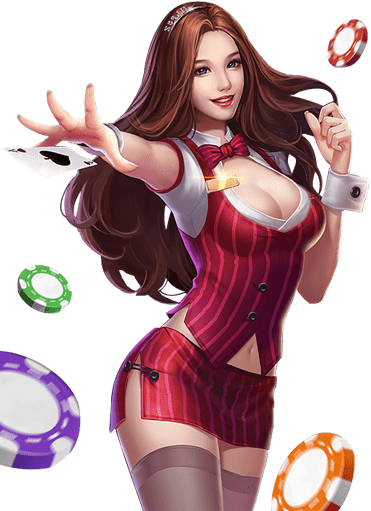
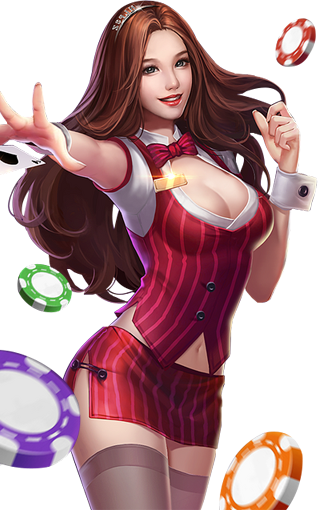
首页中奖排行

diff --git a/src/views/Home.v2.vue b/src/views/Home.v2.vue
@@ -28,26 +28,25 @@
             p.t_l 时时彩是中国福利彩票时时彩的简称，重庆时时彩是一种经中国国家财政部批准，由中国福利彩票发行管理中心在重庆市所辖区域内发行，由重庆市福利彩票发行中心承销的彩票。
 
 
-          el-col(:span="4" v-for=" (c, index) in topgames " v-if="c" v-bind:class="[c.title? c.class || c.menuClass :'empty ds-icon-add-item']" @click.native=" openHomeTab(c) ")
+          el-col(:span="2" v-for=" (c, index) in topgames " v-if="c" v-bind:class="[c.title? c.class || c.menuClass :'empty ds-icon-add-item', 'top-game-type-icon']" @click.native=" openHomeTab(c) ")
             p {{ c.title }}
 
           .absolute.rank.t_l(@mouseover="leaderBoard")
             p.ft18 中奖排行榜
             transition(name="slide-left" appear=true)
-              dl.absolute(v-show=" ri === 0 " key="0")
+              dl.absolute.ls-wp(v-show=" ri === 0 " key="0")
                 dd(v-for=" (r, i) in rank.slice(0, 10) ")
                   span.rank-index {{ i + 1 }}
                   span.rank-un.inlb {{ r.username }}
-                  | 喜中 ¥
-                  span.rank-money.inlb {{ r.settlement.toFixed(0)._nwc() }}
+                  span.rank-un.inlb {{ r.game }}
+                  span.rank-money.inlb 喜中 ¥ {{ r.settlement.toFixed(0)._nwc() }}
             transition(name="slide" appear=true )
-              dl.absolute(v-show=" ri === 1 " key="1")
+              dl.absolute.ls-wp(v-show=" ri === 1 " key="1")
                 dd(v-for=" (r, i) in rank.length > 10 ? rank.slice(10, 20) : rank ")
                   span.rank-index {{ (rank.length > 10 ? 11 : 1) + i }}
                   span.rank-un.inlb {{ r.username }}
-                  | 喜中 ¥
-                  span.rank-money.inlb {{ r.settlement.toFixed(0)._nwc() }}
-
+                  span.rank-un.inlb {{ r.game }}
+                  span.rank-money.inlb 喜中 ¥ {{ r.settlement.toFixed(0)._nwc() }}
 
         .title
           p.t1.c_f 我们的游戏
@@ -491,8 +490,8 @@ export default {
     position relative
     margin-bottom .3rem
     padding PW
-    padding-left 31%
-    padding-right 20%
+    padding-left 26%
+    padding-right 28%
     text-align center
     radius()
     color #302b2a
@@ -509,7 +508,8 @@ export default {
       left 0
       right 60%
       background url(../assets/newhome/girl-min.png) no-repeat
-      background-size 3.71rem
+      // background-size 3.71rem
+      background-size 3.18rem
 
     .intro
       font-shadow(none)
@@ -582,12 +582,17 @@ export default {
         background url(../assets/newhome/index_icon_b_10.png) 50% no-repeat
 
       &:hover
-        padding-top H - 2*PW
+        // padding-top H - 2*PW
+        padding-top 0.95rem
         background-position 50% 20%
         background-color rgba(255, 255, 255, .2)
         box-shadow 0 .3rem 1rem rgba(0, 0, 0, .2)
         opacity 1
-
+    .top-game-type-icon.el-col
+      width 1.2rem
+      min-width 1.2rem
+      height 1.2rem
+      padding-top 1.2rem
     .el-col.pool
       font-family Roboto
       color YELLOW
@@ -607,7 +612,8 @@ export default {
     .rank
       right 0
       top 0
-      width 2rem
+      // width 2rem
+      width 3.2rem
       height 5rem
       border 2px
       color #fff
@@ -634,11 +640,18 @@ export default {
         radius(50%)
         display inline-block
         width .2rem
-        background-color BLUE
+        // background-color BLUE
+        background-color #e1e1e1
         text-align center
-
-
-
+        color #666666
+      .ls-wp
+        &>dd
+          &:nth-child(1),
+          &:nth-child(2),
+          &:nth-child(3)
+            .rank-index
+              background-color BLUE
+              color #ffffff
   .picture
     position relative
     cursor pointer
